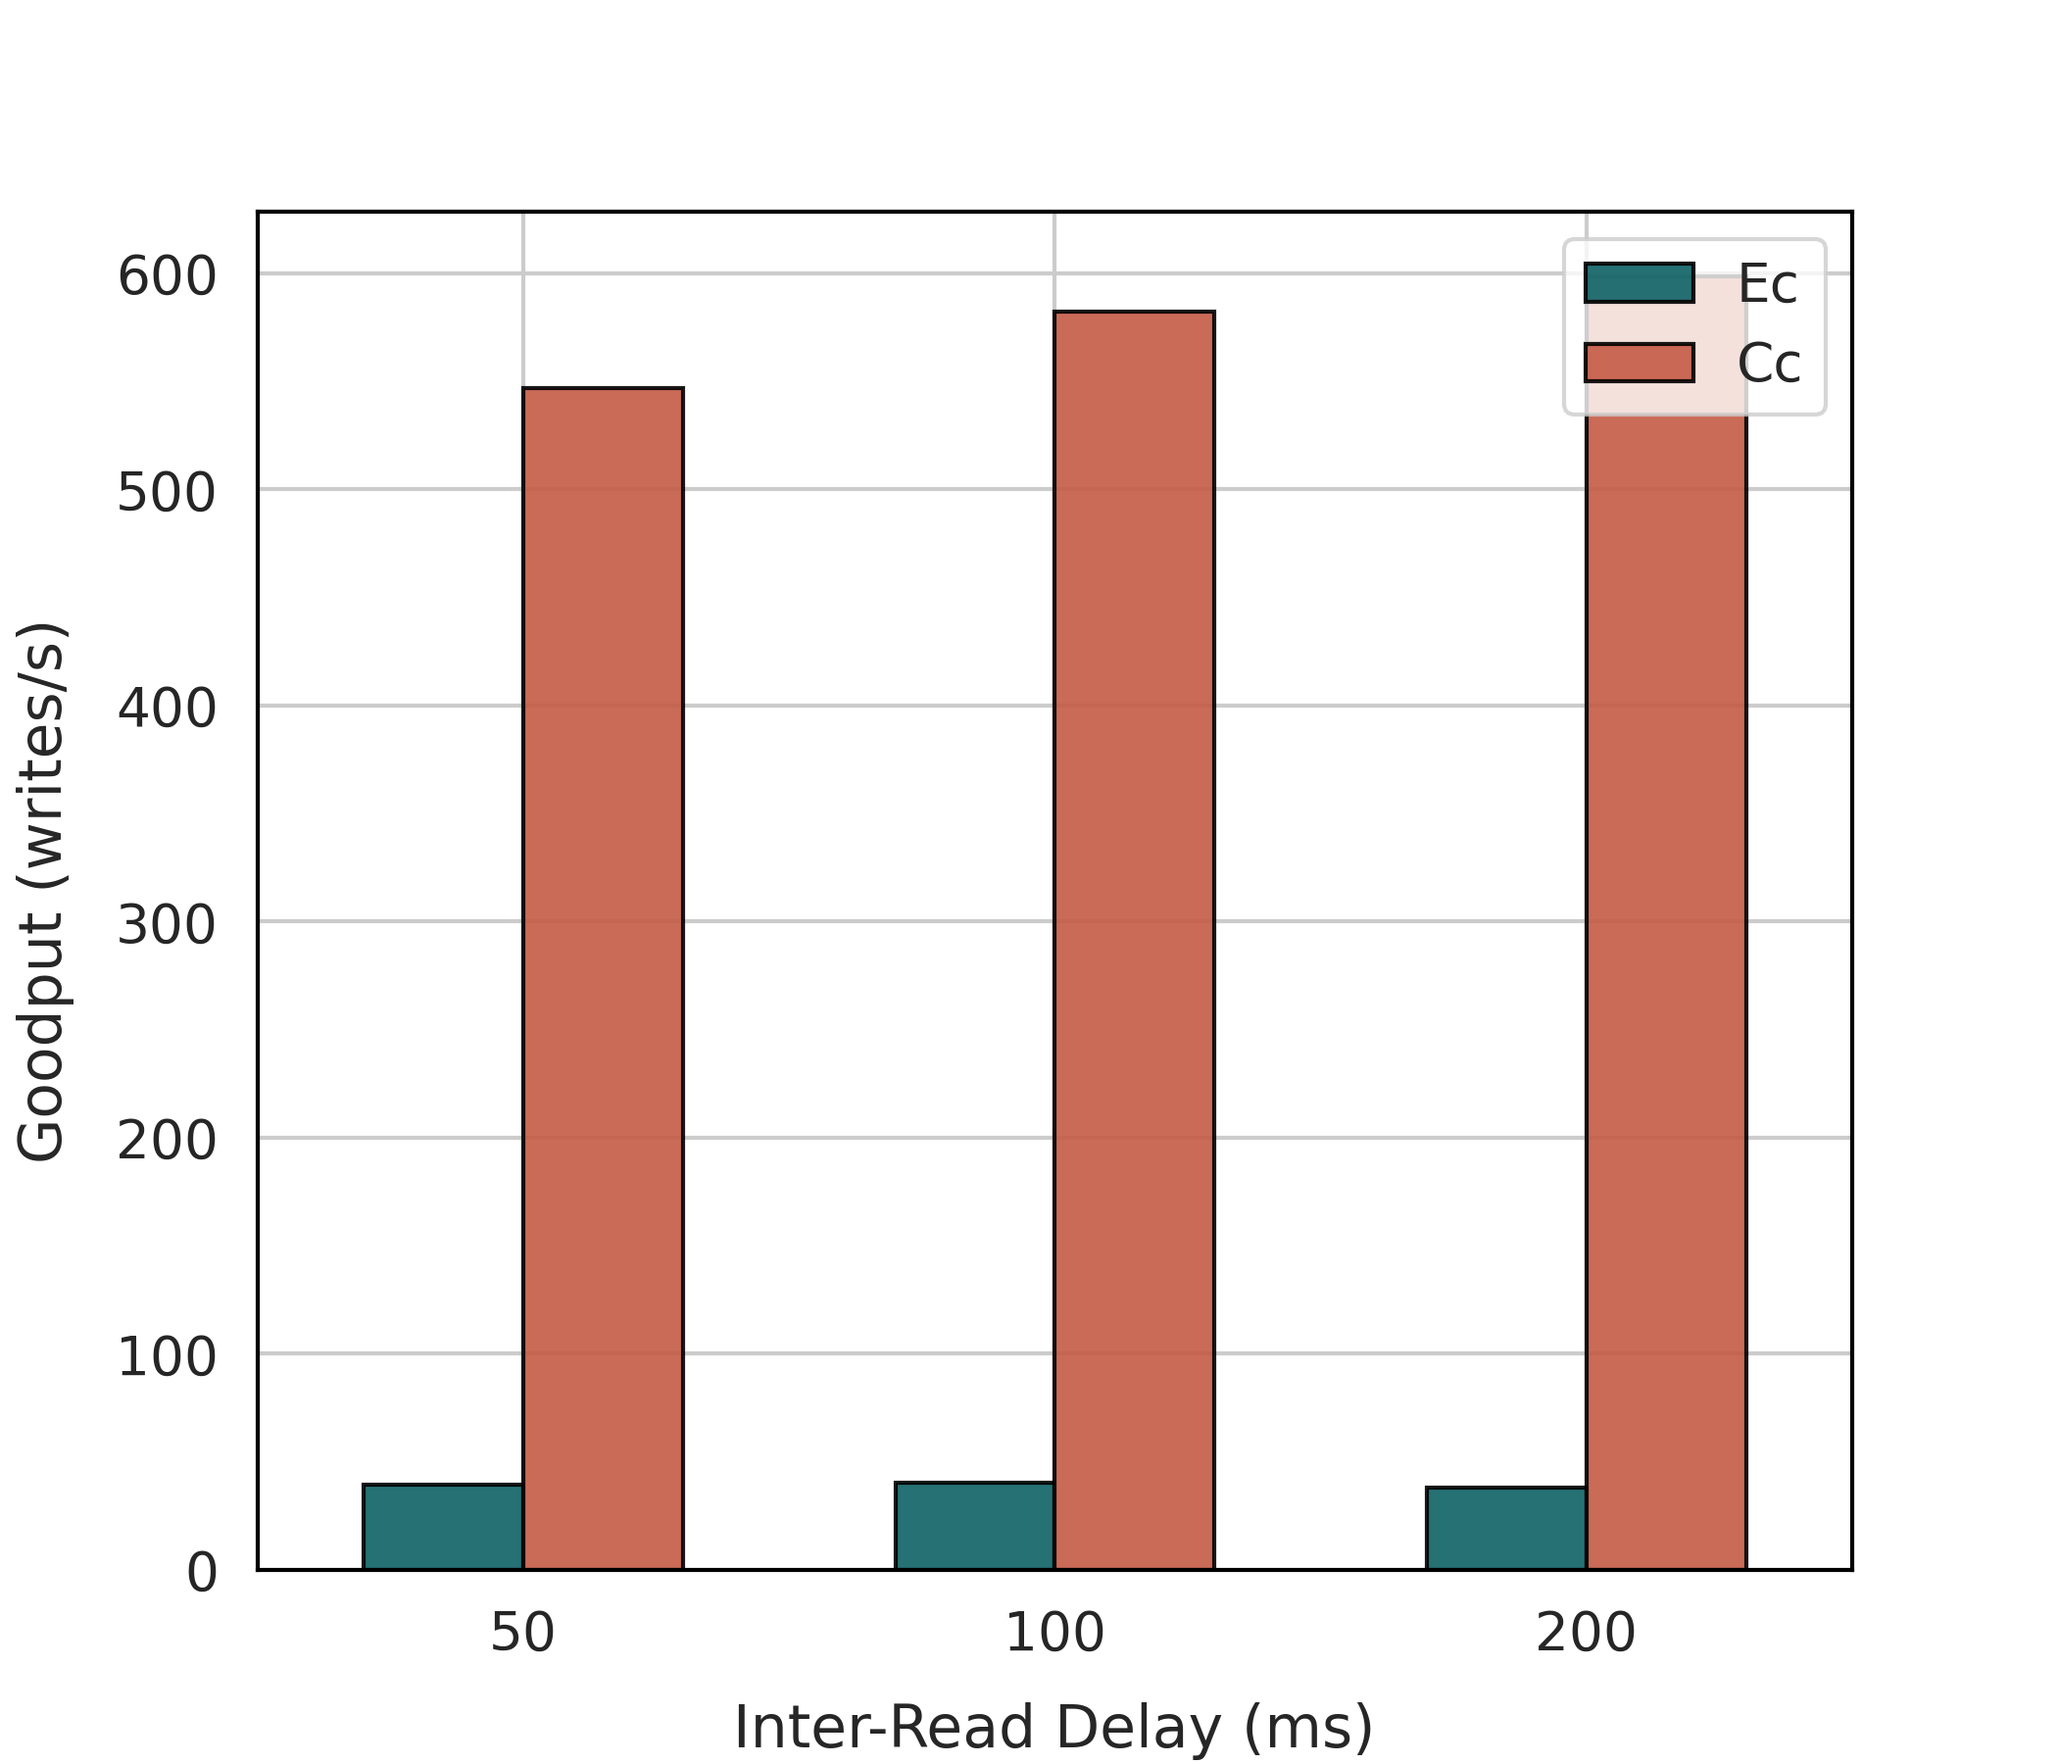
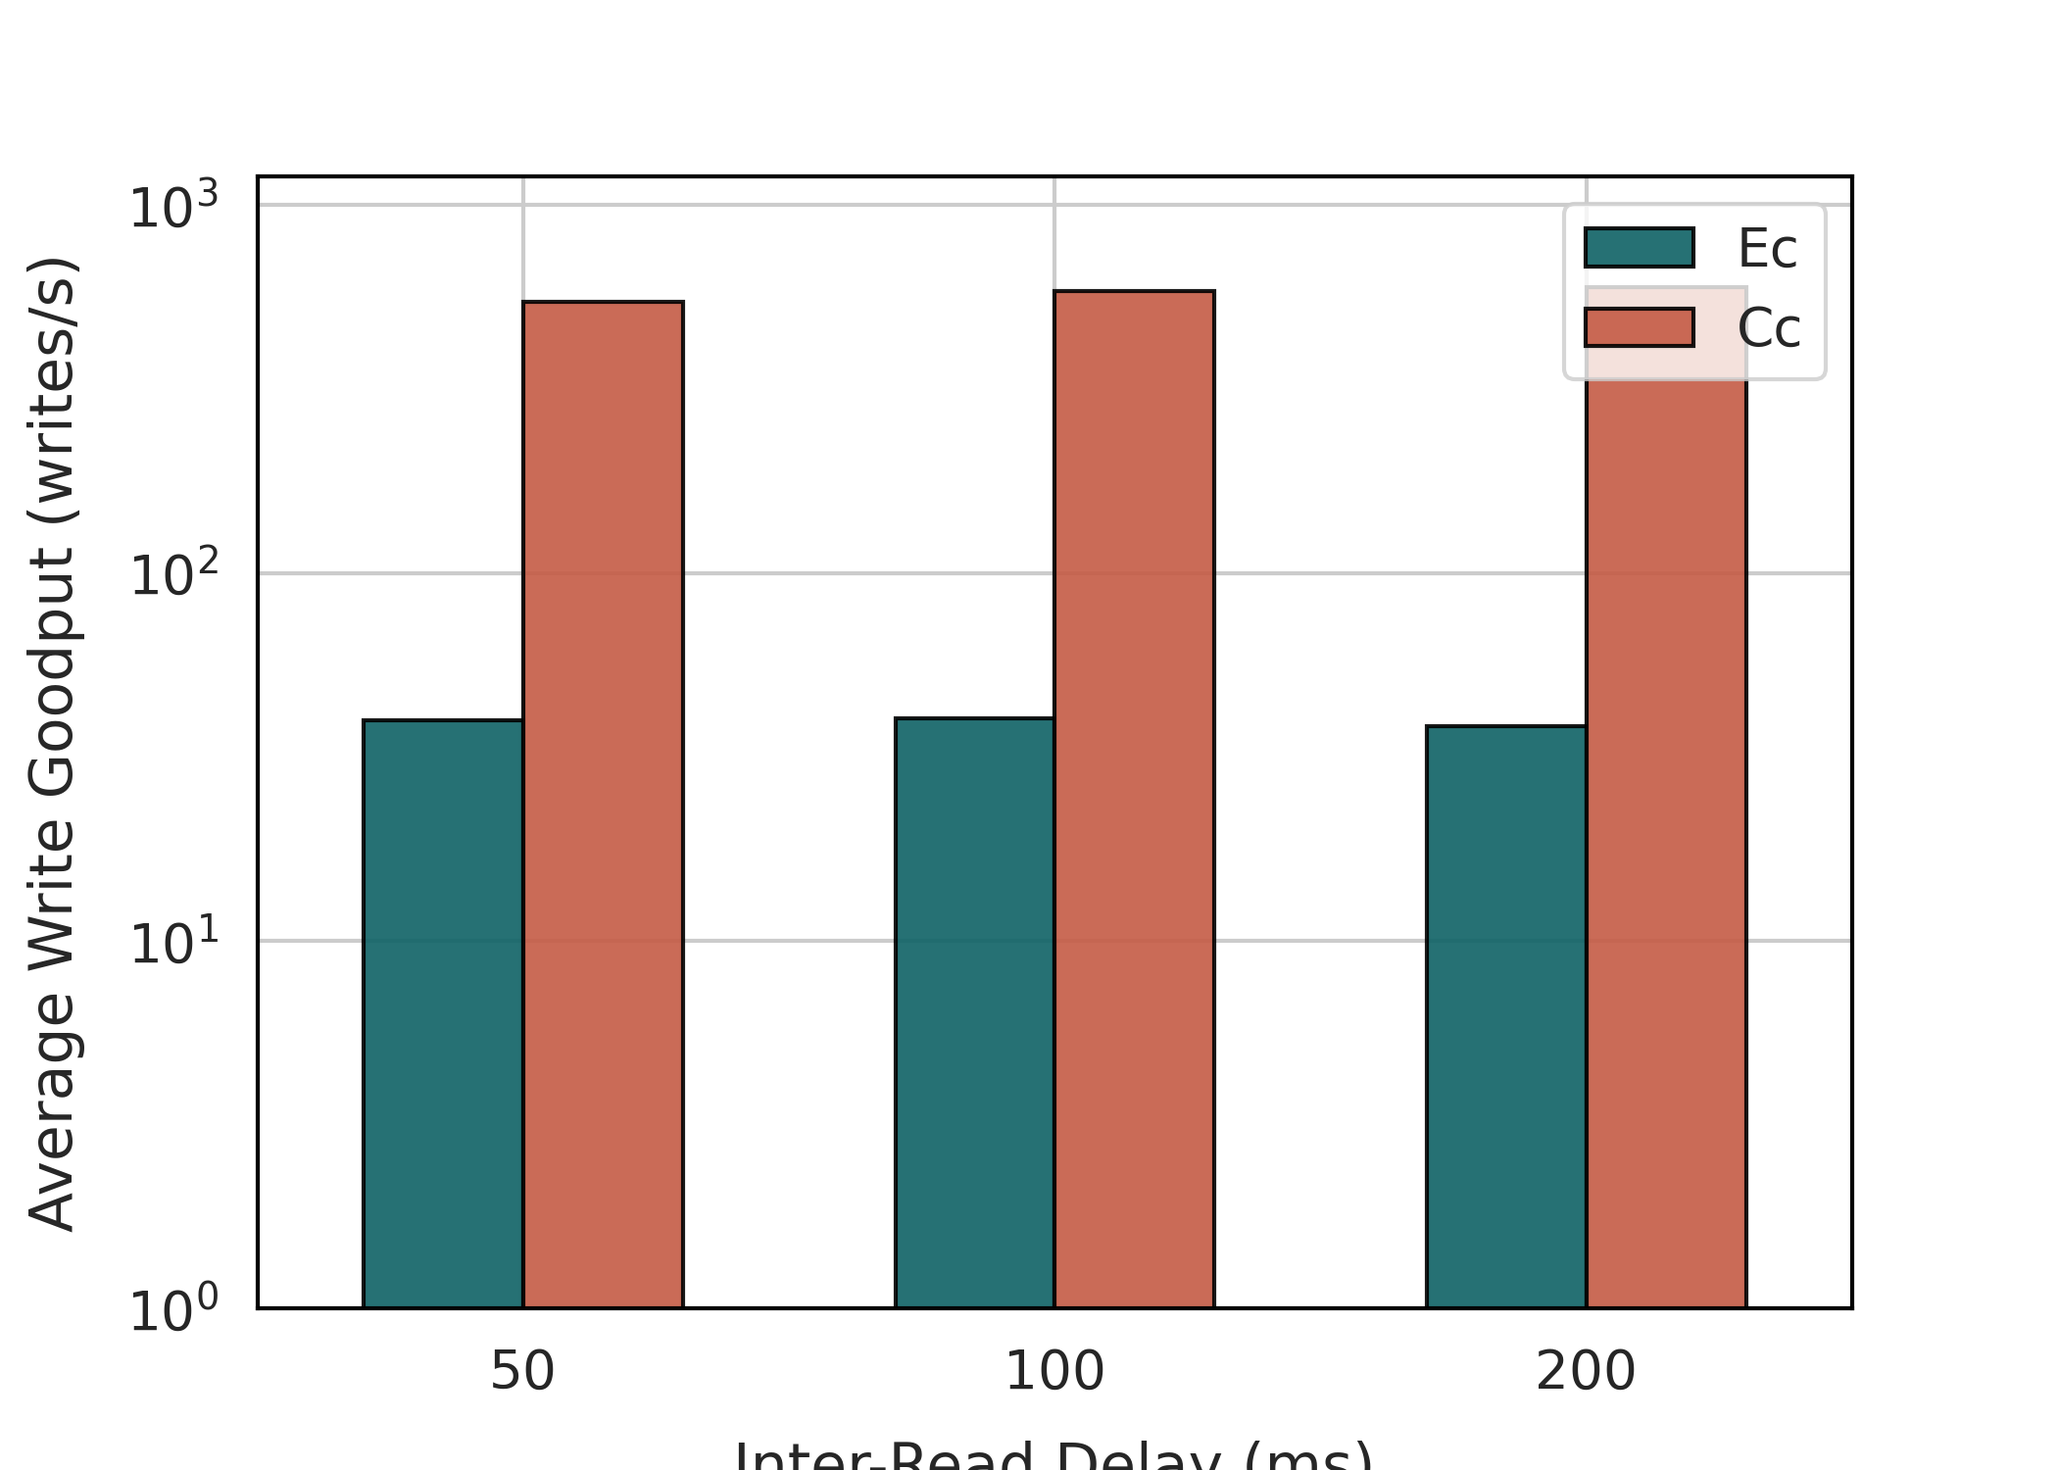
Update single-client goodput logs

diff --git a/evaluation/visualization/single_client/goodput.py b/evaluation/visualization/single_client/goodput.py
@@ -2,8 +2,9 @@ import pandas as pd
 import seaborn as sns
 import numpy as np
 import matplotlib.pyplot as plt
-from visualization.utils import PATH, CC_DIR, EC_DIR, LOCAL_REGION, DELAYS, LINESTYLES
+from visualization.utils import PATH, CC_DIR, EC_DIR, LOCAL_REGION, DELAYS, COLORS, MARKERS
 from visualization.utils import get_data
+import math
 
 PAYLOAD_BYTES = 12
 EC_GOODPUT_PATH = PATH + '/logs/goodput' + EC_DIR + '/d_'
@@ -31,11 +32,9 @@ def goodput_evaluation():
 
     df = pd.concat(dfs).reset_index(drop=True)
 
-    goodput_average_barplot(df, 'writes_per_second', 'Goodput (writes/s)')
-    goodput_average_barplot(df, 'bytes_per_second', 'Goodput (bytes/s)')
+    goodput_average_barplot(df)
 
-    goodput_latency_relation(df, 'writes_per_second', 'Goodput (erites/s)')
-    goodput_latency_relation(df, 'bytes_per_second', 'Goodput (bytes/s)')
+    goodput_with_read_delay(df)
 
 
 def get_goodput_times(path, delay):
@@ -77,45 +76,55 @@ def goodput_distribution_table(df_ec_goodput, df_cc_goodput, delay):
     plt.close()
 
 
-def goodput_average_barplot(df, goodput_var, ylabel):
-    _, ax = plt.subplots(figsize=(7, 6))
-    grouped_data = df.groupby(["delay", "consistency"])[goodput_var]
+def goodput_average_barplot(df):
+    _, ax = plt.subplots(figsize=(7, 5))
+    grouped_data = df.groupby(["delay", "consistency"])['writes_per_second']
     average_goodput = grouped_data.mean().round(2).reset_index()
 
-    sns.barplot(data=average_goodput, x="delay", y=goodput_var,
+    sns.barplot(data=average_goodput, x="delay", y='writes_per_second',
                 hue="consistency", hue_order = ['EC','CC'], width=0.6, linewidth=1, edgecolor='black', order=DELAYS, alpha=0.9)
     ax.xaxis.grid(True)
     ax.set_xlabel("Inter-Read Delay (ms)", labelpad=10)
-    ax.set_ylabel(ylabel, labelpad=10)
+    ax.set_ylabel('Average Write Goodput (writes/s)', labelpad=10)
+    plt.yscale('log')
+
+    max_value = average_goodput['writes_per_second'].max()
+    y_max = max_value * 2
+    ax.set_ylim(1, y_max)
+
     handles, labels = ax.get_legend_handles_labels()
     ax.legend(handles, [label.capitalize()
               for label in labels], loc="upper right")
-    plt.savefig(RESULT_PATH + '/' + goodput_var + '_barplot.png', dpi=300)
+    plt.savefig(RESULT_PATH + '/' + 'writes_per_second' + '_barplot.png', dpi=300)
     plt.clf()
     plt.close()
 
 
-def goodput_latency_relation(df, goodput_var, ylabel):
-    _, ax = plt.subplots(figsize=(7, 6))
+def goodput_with_read_delay(df):
+    df_ec_mean = df[df['consistency'] == 'EC'].groupby('delay').mean().sort_index().reset_index()
+    df_cc_mean = df[df['consistency'] == 'CC'].groupby('delay').mean().sort_index().reset_index()
 
-    def estimator_99(data): return np.percentile(data, 99)
-    def estimator_95(data): return np.percentile(data, 95)
+    y_coords_ec_mean, y_coords_cc_mean = [], []
+    for delay in DELAYS:
+        y_coords_ec_mean.append(df_ec_mean[df_ec_mean['delay'] == delay]['writes_per_second'].values[0])
+        y_coords_cc_mean.append(df_cc_mean[df_cc_mean['delay'] == delay]['writes_per_second'].values[0])
 
-    sns.lineplot(data=df, x="delay", y=goodput_var, hue="consistency", style="consistency", markers=['s', 'o'], dashes=[LINESTYLES[0], LINESTYLES[0]],
-                 markersize=6, estimator=estimator_99, errorbar=None, linewidth=3, markeredgewidth=1, markeredgecolor='w', hue_order=['EC','CC'])
-    sns.lineplot(data=df, x="delay", y=goodput_var, hue="consistency", style="consistency", markers=['s', 'o'], dashes=[LINESTYLES[1], LINESTYLES[1]],
-                 markersize=8, estimator=estimator_95, errorbar=None, linewidth=3, markeredgewidth=1, markeredgecolor='w', hue_order=['EC','CC'])
-    sns.lineplot(data=df, x="delay", y=goodput_var, hue="consistency", style="consistency", markers=['s', 'o'], dashes=[LINESTYLES[2], LINESTYLES[2]],
-                 markersize=10, estimator=np.mean, errorbar=None, linewidth=3, markeredgewidth=1, markeredgecolor='w', hue_order=['EC','CC'])
+    _, ax = plt.subplots(figsize=(8, 5))
+        
+    plt.plot(DELAYS, y_coords_ec_mean, marker=MARKERS[1], markersize=12, linewidth=3, linestyle='-', color=COLORS[0], markeredgewidth=1, markeredgecolor='w')
+    plt.plot(DELAYS, y_coords_cc_mean, marker=MARKERS[1], markersize=12, linewidth=3, linestyle='-', color=COLORS[1], markeredgewidth=1, markeredgecolor='w')
 
     ax.xaxis.grid(True)
     ax.set_xlabel("Inter-Read Delay (ms)", labelpad=10)
-    ax.set_ylabel(ylabel, labelpad=10)
+    ax.set_ylabel("Average Write Goodput (writes/s)", labelpad=10)
     ax.xaxis.set_major_formatter(plt.FormatStrFormatter('%.0f'))
-    handles, labels = ax.get_legend_handles_labels()
-    ax.legend(handles, [label.capitalize()
-              for label in labels], loc="lower right")
-    ax.legend(loc="upper right", labels=['EC P99', 'CC P99', 'EC P95', 'CC P95', 'EC Avg', 'CC Avg'])
-    plt.savefig(RESULT_PATH + '/' + goodput_var + '_with_latency.png', dpi=300)
+    plt.yscale('log')
+
+    max_value = max(y_coords_cc_mean + y_coords_ec_mean).max()
+    y_max = max_value * 2
+    ax.set_ylim(1, y_max)
+
+    plt.legend(['EC', 'CC'], loc="upper right")
+    plt.savefig(RESULT_PATH + '/goodput_with_read_delay.png', dpi=300, bbox_inches='tight')
     plt.clf()
     plt.close()

diff --git a/evaluation/visualization/single_client/latency.py b/evaluation/visualization/single_client/latency.py
@@ -109,7 +109,6 @@ def latency_average_barplot(df):
 
 
 def latency_with_write_delay(df):
-    _, ax = plt.subplots(figsize=(8, 4))
     df_ec_mean = df[df['consistency'] == 'EC'].groupby('delay').mean().sort_index().reset_index()
     df_cc_mean = df[df['consistency'] == 'CC'].groupby('delay').mean().sort_index().reset_index()
 
@@ -125,6 +124,8 @@ def latency_with_write_delay(df):
         y_coords_cc_99.append(df_cc_99[df_cc_99['delay'] == delay]['percentile_99'].values[0])
 
     # Average Read Latency
+    _, ax = plt.subplots(figsize=(8, 4))
+
     plt.plot(DELAYS, y_coords_ec_mean, marker=MARKERS[1], markersize=12, linewidth=3, linestyle='-', color=COLORS[0], markeredgewidth=1, markeredgecolor='w')
     plt.plot(DELAYS, y_coords_cc_mean, marker=MARKERS[1], markersize=12, linewidth=3, linestyle='-', color=COLORS[1], markeredgewidth=1, markeredgecolor='w')
 

diff --git a/evaluation/__main__.py b/evaluation/__main__.py
@@ -6,8 +6,8 @@ sns.set(style="whitegrid", font_scale=1.2, rc={"axes.edgecolor": "black", "axes.
 #sns.set(style="whitegrid", font_scale=1.2, rc={"grid.linestyle": (0, (5, 10)), "grid.color": "#555555", "axes.edgecolor": "black", "axes.linewidth": 1.5})
 sns.set_palette(visualization.COLORS)
 
-visualization.single_client.latency_evaluation()
-# visualization.single_client.goodput_evaluation()
+# visualization.single_client.latency_evaluation()
+visualization.single_client.goodput_evaluation()
 # visualization.single_client.visibility_evaluation()
 
 # visualization.multi_client.latency_evaluation()
